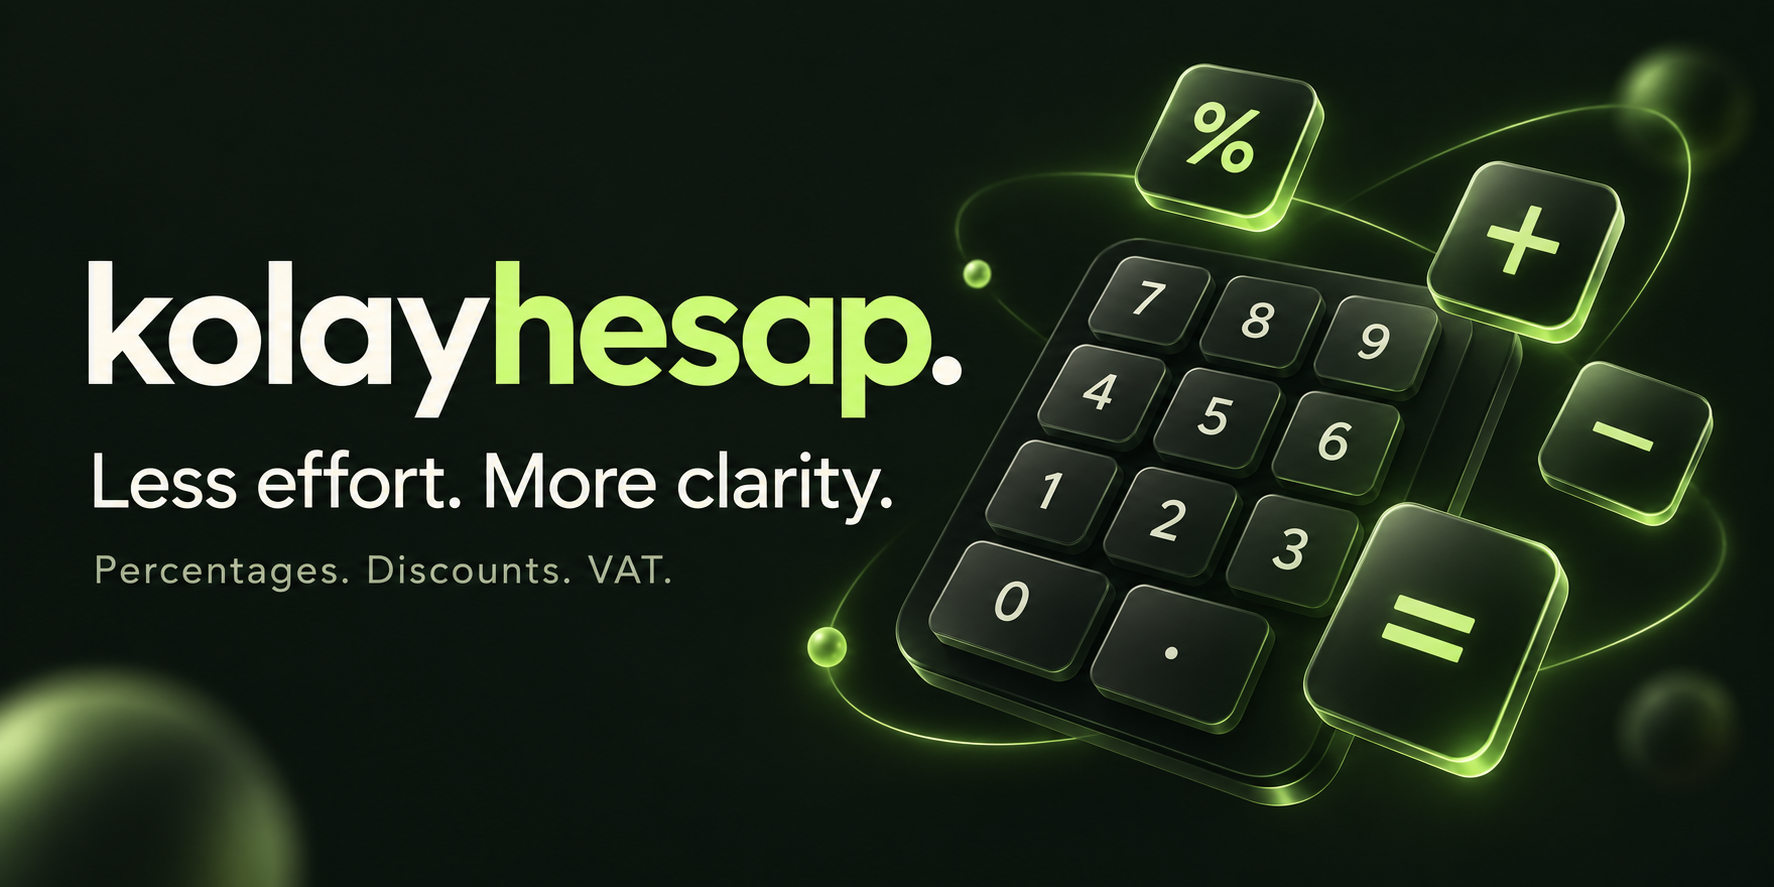
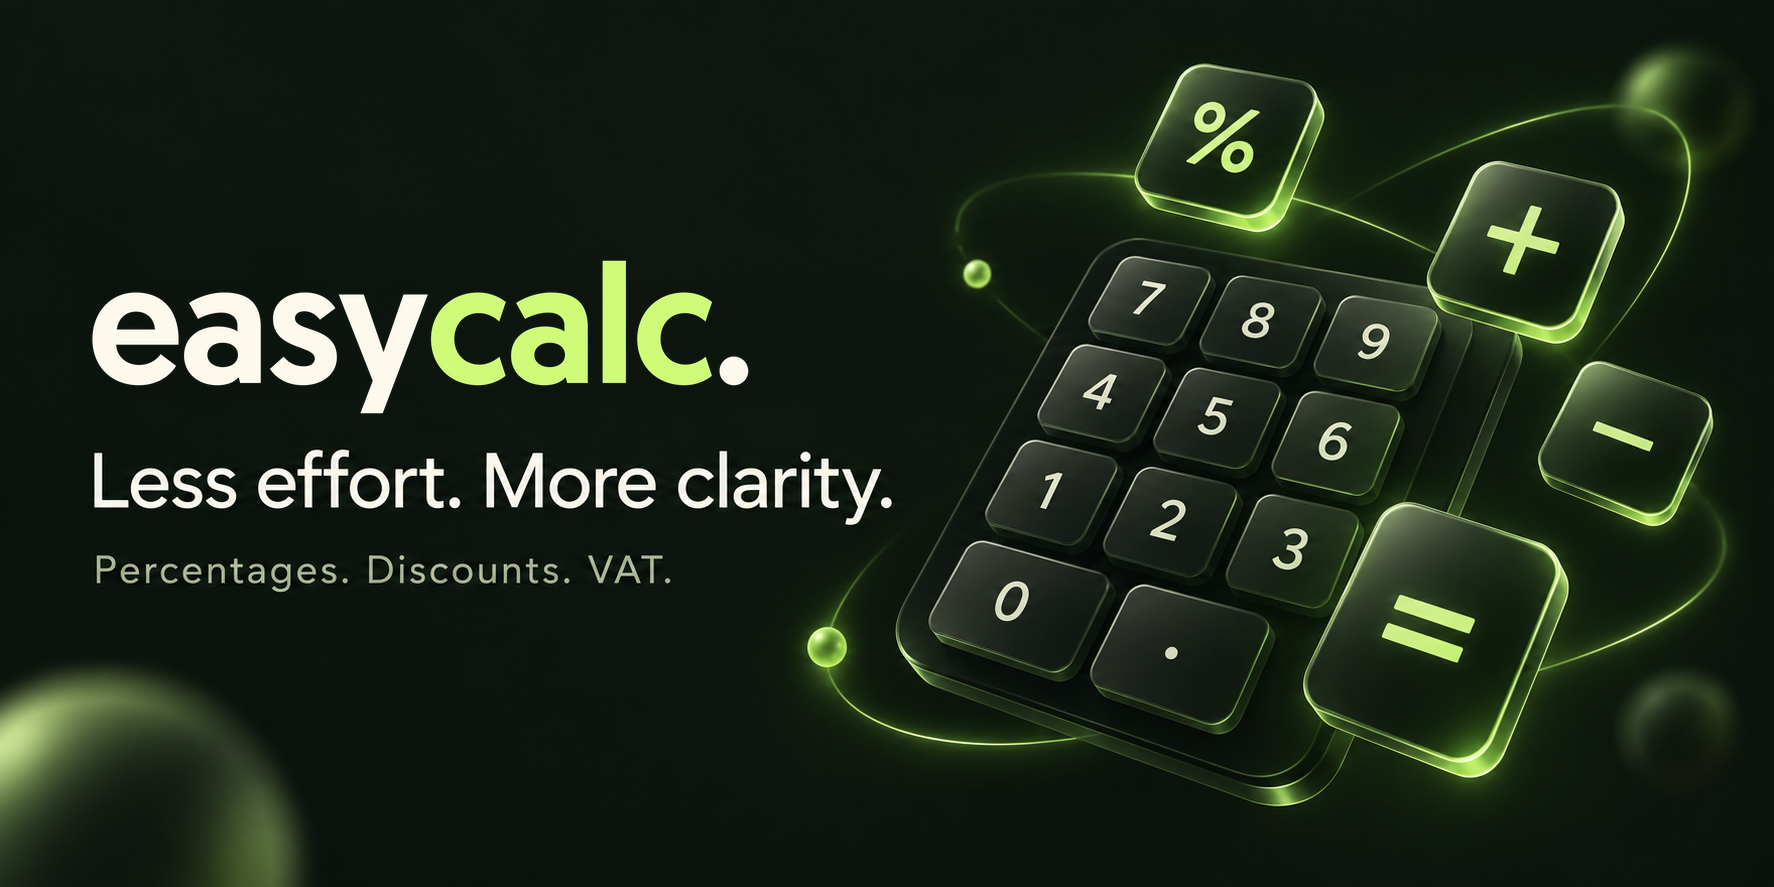
Rename to Easy Calc
The repository is now easy-calc and the product Easy Calc, in line with
English names across the account.

- Wordmark, page titles, Open Graph tags and the GitHub link use the new
  name and URL; preferences are stored under easycalc.*.
- New banner: the artwork is unchanged, the wordmark is redrawn as
  "easycalc." in the same type and colours.
- The Turkish README moved from docs/ to the repository root next to the
  English one, and both describe the browser-language behaviour.

Changed region(s): [[0.031, 0.274, 0.5581, 0.487]]

diff --git a/src/App.tsx b/src/App.tsx
@@ -16,8 +16,8 @@ function remember(key: string, value: string) {
 }
 const browserLanguage = (): Language => navigator.language?.toLowerCase().startsWith("tr") ? "tr" : "en";
 export default function App() {
-  const [language, setLanguage] = useState<Language>(() => saved("kolayhesap.language", ["en", "tr"], browserLanguage()));
-  const [theme, setTheme] = useState<Theme>(() => saved("kolayhesap.theme", ["dark", "light"], "dark"));
+  const [language, setLanguage] = useState<Language>(() => saved("easycalc.language", ["en", "tr"], browserLanguage()));
+  const [theme, setTheme] = useState<Theme>(() => saved("easycalc.theme", ["dark", "light"], "dark"));
   const [mode, setMode] = useState<Mode>("percent");
   const [first, setFirst] = useState("1000"), [second, setSecond] = useState("20");
   const [expression, setExpression] = useState("");
@@ -34,8 +34,8 @@ export default function App() {
     document.querySelector('meta[name="description"]')?.setAttribute("content", t.description);
     document.querySelector('meta[name="theme-color"]')?.setAttribute("content", theme === "dark" ? "#101813" : "#f6f7f2");
   }, [language, theme, t.title, t.description]);
-  function chooseLanguage(next: Language) { setLanguage(next); remember("kolayhesap.language", next); }
-  function chooseTheme(next: Theme) { setTheme(next); remember("kolayhesap.theme", next); }
+  function chooseLanguage(next: Language) { setLanguage(next); remember("easycalc.language", next); }
+  function chooseTheme(next: Theme) { setTheme(next); remember("easycalc.theme", next); }
   let result: ReturnType<typeof calculate> | null = null, resultError = "", detail = "";
   try {
     if (first.trim() && second.trim()) {
@@ -76,11 +76,11 @@ export default function App() {
   const keys = ["AC", "(", ")", "⌫", "7", "8", "9", "÷", "4", "5", "6", "×", "1", "2", "3", "−", "%", "0", language === "tr" ? "," : ".", "+"];
   return <main>
     <header className="topbar">
-      <a className="brand" href="#" aria-label="Kolay Hesap"><span className="brand-mark">=</span>kolay<span>hesap</span><span className="brand-dot">.</span></a>
+      <a className="brand" href="#" aria-label="Easy Calc"><span className="brand-mark">=</span>easy<span>calc</span><span className="brand-dot">.</span></a>
       <div className="toolbar">
         <div className="segmented languages" role="group" aria-label={t.language}>{(["en", "tr"] as const).map(lang => <button key={lang} lang={lang} aria-label={lang === "en" ? "English" : "Türkçe"} aria-pressed={language === lang} onClick={() => chooseLanguage(lang)}>{lang.toUpperCase()}</button>)}</div>
         <div className="segmented themes" role="group" aria-label={t.theme}><button aria-pressed={theme === "light"} onClick={() => chooseTheme("light")}><span aria-hidden="true">☀</span><span>{t.light}</span></button><button aria-pressed={theme === "dark"} onClick={() => chooseTheme("dark")}><span aria-hidden="true">☾</span><span>{t.dark}</span></button></div>
-        <a className="github" href="https://github.com/Talkdedsec/kolay-hesap" target="_blank" rel="noreferrer">GitHub ↗</a>
+        <a className="github" href="https://github.com/Talkdedsec/easy-calc" target="_blank" rel="noreferrer">GitHub ↗</a>
       </div>
     </header>
     <section className="intro"><div><div className="eyebrow"><span className="status-dot" />{t.eyebrow}</div><h1>{t.headline}<br /><span>{t.accent}</span></h1><p>{t.intro}</p></div><div className="intro-aside"><div className="decorative-equation" aria-hidden="true"><span>1,000</span><span>× 20%</span><strong>200<span>↗</span></strong></div><span className="aside-note">{t.tagline}</span></div></section>
@@ -94,6 +94,6 @@ export default function App() {
       <div className="notice" role="status">{notice ? t[notice] : ""}</div><p className="input-help">{t.help}<br />{t.ratesHelp}</p>
     </section><section className="calculator" aria-labelledby="calculator-title"><div className="section-top"><h2 id="calculator-title"><span className="section-index">02</span>{t.classic}</h2><span className="tiny-label" aria-hidden="true">+ − × ÷</span></div><div className="screen"><label htmlFor="expression">{t.expression}</label><input id="expression" value={expression} placeholder="0" spellCheck={false} autoComplete="off" maxLength={200} onChange={event => { setExpression(event.target.value); setAnswer(null); setError(""); }} onKeyDown={event => { if (event.key === "Enter") { event.preventDefault(); solve(); } if (event.key === "Escape") press("AC"); }} /><output aria-live="polite" className={error ? "error" : ""}>{error ? translateError(error, language) : answer === null ? "" : "= " + fmt(answer)}</output></div><div className="keypad">{keys.map(key => <button key={key} onClick={() => press(key)} aria-label={key === "⌫" ? t.backspace : key === "AC" ? t.clear : key} className={key === "AC" ? "clear" : ["÷", "×", "−", "+"].includes(key) ? "operator" : ""}>{key}</button>)}<button className="equals" onClick={solve}>{t.compute}<span>=</span></button></div><p className="keyboard-hint"><kbd>Enter</kbd>{t.compute}<span>·</span><kbd>Esc</kbd>{t.clear}</p><p className="percent-hint">{t.percentHint}</p></section></div>
     <section className="history"><div className="section-top"><h2><span className="section-index">03</span>{t.history}<span className="history-count">{history.length.toString().padStart(2, "0")}</span></h2>{history.length > 0 && <button className="text-button" onClick={() => setHistory([])}>{t.clear}</button>}</div>{history.length ? <div className="history-list">{history.map((item, index) => <button key={index} onClick={() => { setExpression(item.expression); setAnswer(item.value); setError(""); }}><span>{item.expression}</span><strong>= {fmt(item.value)}</strong><span aria-hidden="true">↗</span></button>)}</div> : <p className="history-empty"><span aria-hidden="true">↶</span>{t.historyEmpty}</p>}<p className="history-note">{t.historyNote}</p></section>
-    <footer><span><strong>kolayhesap.</strong>{t.footer}</span><span>{t.privacy}</span></footer>
+    <footer><span><strong>easycalc.</strong>{t.footer}</span><span>{t.privacy}</span></footer>
   </main>;
 }

diff --git a/src/lib/i18n.ts b/src/lib/i18n.ts
@@ -12,7 +12,7 @@ export const modeConfig: { id: Mode; icon: string; defaults: [string, string] }[
 ];
 export const translations = {
  en: {
-  title: "Kolay Hesap — Everyday calculations, made simple",
+  title: "Easy Calc — Everyday calculations, made simple",
   description: "Calculate percentages, discounts, increases and VAT instantly. A free calculator in English and Turkish.",
   tagline: "Small calculations. A little more clarity.", eyebrow: "YOUR EVERYDAY CALCULATOR", headline: "Less effort.", accent: "More clarity.", intro: "From a quick discount to a tricky percentage. Make the numbers work for you.",
   quick: "What are we calculating?", instant: "Live result", rate: "Quick rates", result: "RESULT", empty: "Fill in both fields to see your result.", copy: "Copy result", copied: "Result copied.", copyFailed: "Copy is unavailable. Select the result and copy it manually.",
@@ -29,7 +29,7 @@ export const translations = {
   },
  },
  tr: {
-  title: "Kolay Hesap — Günlük hesaplar artık çok kolay",
+  title: "Easy Calc — Günlük hesaplar artık çok kolay",
   description: "Yüzde, indirim, zam ve KDV hesaplarını anında yap. İngilizce ve Türkçe ücretsiz hesap makinesi.",
   tagline: "Küçük hesaplar. Büyük kolaylık.", eyebrow: "GÜNLÜK HAYATIN HESAP MAKİNESİ", headline: "Hesabı kafana", accent: "takma.", intro: "İndirimden yüzdeye, zamdan KDV’ye. Sayıları yaz, gerisini bize bırak.",
   quick: "Ne hesaplayalım?", instant: "Anında sonuç", rate: "Hızlı oranlar", result: "SONUÇ", empty: "Sonucu görmek için iki alanı da doldur.", copy: "Sonucu kopyala", copied: "Sonuç kopyalandı.", copyFailed: "Kopyalama kullanılamıyor. Sonucu seçip elle kopyalayabilirsin.",

diff --git a/index.html b/index.html
@@ -6,16 +6,16 @@
   <meta name="theme-color" content="#101813" />
   <meta name="description" content="Calculate percentages, discounts, increases and VAT instantly. Dark and light themes. English and Turkish." />
   <meta property="og:type" content="website" />
-  <meta property="og:title" content="Kolay Hesap — Everyday calculations, made simple" />
+  <meta property="og:title" content="Easy Calc — Everyday calculations, made simple" />
   <meta property="og:description" content="Less effort. More clarity. Percentages, discounts and VAT in English and Turkish." />
-  <meta property="og:url" content="https://talkdedsec.github.io/kolay-hesap/" />
-  <meta property="og:image" content="https://talkdedsec.github.io/kolay-hesap/banner.png" />
-  <meta property="og:image:alt" content="Kolay Hesap — Less effort. More clarity." />
+  <meta property="og:url" content="https://talkdedsec.github.io/easy-calc/" />
+  <meta property="og:image" content="https://talkdedsec.github.io/easy-calc/banner.png" />
+  <meta property="og:image:alt" content="Easy Calc — Less effort. More clarity." />
   <meta property="og:locale" content="en_US" />
   <meta property="og:locale:alternate" content="tr_TR" />
   <meta name="twitter:card" content="summary_large_image" />
-  <meta name="twitter:image" content="https://talkdedsec.github.io/kolay-hesap/banner.png" />
-  <title>Kolay Hesap — Everyday calculations, made simple</title>
+  <meta name="twitter:image" content="https://talkdedsec.github.io/easy-calc/banner.png" />
+  <title>Easy Calc — Everyday calculations, made simple</title>
   <script src="./preferences.js"></script>
 </head>
 <body><div id="root"></div><script type="module" src="/src/main.tsx"></script></body>

diff --git a/public/preferences.js b/public/preferences.js
@@ -2,8 +2,8 @@
 {
   let savedTheme = null, savedLanguage = null;
   try {
-    savedTheme = localStorage.getItem("kolayhesap.theme");
-    savedLanguage = localStorage.getItem("kolayhesap.language");
+    savedTheme = localStorage.getItem("easycalc.theme");
+    savedLanguage = localStorage.getItem("easycalc.language");
   } catch { /* The calculator also works when storage is blocked. */ }
   if (savedTheme === "light" || savedTheme === "dark") document.documentElement.dataset.theme = savedTheme;
   const browser = (navigator.language || "").toLowerCase().startsWith("tr") ? "tr" : "en";

diff --git a/README.md b/README.md
@@ -1,16 +1,16 @@
-![Kolay Hesap — Less effort. More clarity.](public/banner.png)
+![Easy Calc — Less effort. More clarity.](public/banner.png)
 
-<p align="center"><strong>English</strong> · <a href="docs/README.tr.md">Türkçe</a></p>
-<p align="center"><a href="https://talkdedsec.github.io/kolay-hesap/">Open the calculator</a> · <a href="#getting-started">Get started</a> · <a href="#calculation-rules">Calculation rules</a></p>
+<p align="center"><strong>English</strong> · <a href="README.tr.md">Türkçe</a></p>
+<p align="center"><a href="https://talkdedsec.github.io/easy-calc/">Open the calculator</a> · <a href="#getting-started">Get started</a> · <a href="#calculation-rules">Calculation rules</a></p>
 
-# Kolay Hesap
+# Easy Calc
 
 **Everyday calculations, made simple.** Percentages, discounts, increases and VAT in a focused interface, with instant answers.
 
 ## Features
 
 - **Dark & light themes** — switch at any time; your preference is remembered on your device.
-- **English first, Turkish optional** — all controls, results, errors and number formatting follow your selected language.
+- **English and Turkish** — opens in your browser's language; controls, results, errors and number formatting follow the language you pick, and your choice is remembered.
 - **Seven quick tools** — percentage, discount, increase, percentage ratio, percentage change, add VAT and remove VAT.
 - **Classic calculator** — operator precedence, parentheses, negative values and decimals, without `eval`.
 - **Less typing** — preset rates, live results, copy to clipboard and reusable session history.
@@ -24,8 +24,8 @@ Changing theme or language preserves your current inputs and calculation history
 Use Node.js 24.
 
 ```sh
-git clone https://github.com/Talkdedsec/kolay-hesap.git
-cd kolay-hesap
+git clone https://github.com/Talkdedsec/easy-calc.git
+cd easy-calc
 npm ci
 npm run dev
 ```

diff --git a/README.tr.md b/README.tr.md
@@ -1,16 +1,16 @@
-![Kolay Hesap — Daha az uğraş, daha net sonuç.](../public/banner.png)
+![Easy Calc — Daha az uğraş, daha net sonuç.](public/banner.png)
 
-<p align="center"><a href="../README.md">English</a> · <strong>Türkçe</strong></p>
-<p align="center"><a href="https://talkdedsec.github.io/kolay-hesap/">Hesap makinesini aç</a> · <a href="#kurulum">Kurulum</a> · <a href="#hesaplama-kuralları">Hesaplama kuralları</a></p>
+<p align="center"><a href="README.md">English</a> · <strong>Türkçe</strong></p>
+<p align="center"><a href="https://talkdedsec.github.io/easy-calc/">Hesap makinesini aç</a> · <a href="#kurulum">Kurulum</a> · <a href="#hesaplama-kuralları">Hesaplama kuralları</a></p>
 
-# Kolay Hesap
+# Easy Calc
 
 **Günlük hesaplar artık çok kolay.** Yüzde, indirim, zam ve KDV hesaplarını sade bir arayüzde anında yap.
 
 ## Özellikler
 
 - **Koyu ve açık tema** — istediğin an değiştir; tercihin cihazında hatırlanır.
-- **İngilizce varsayılan, Türkçe seçilebilir** — düğmeler, sonuçlar, hata mesajları ve sayı biçimi seçtiğin dile uyar.
+- **Türkçe ve İngilizce** — tarayıcının dilinde açılır; düğmeler, sonuçlar, hata mesajları ve sayı biçimi seçtiğin dile uyar, seçimin hatırlanır.
 - **Yedi hızlı araç** — yüzde, indirim, zam, yüzde oranı, yüzde değişimi, KDV ekleme ve ayırma.
 - **Klasik hesap makinesi** — işlem önceliği, parantez, negatif ve ondalık değerler; `eval` kullanılmaz.
 - **Daha az yazı** — hazır oranlar, anlık sonuçlar, kopyalama ve tekrar kullanılabilir işlem geçmişi.
@@ -24,8 +24,8 @@ Dil veya tema değiştirmek girdilerini ve geçmişini silmez. İşlem geçmişi
 Node.js 24 kullan.
 
 ```sh
-git clone https://github.com/Talkdedsec/kolay-hesap.git
-cd kolay-hesap
+git clone https://github.com/Talkdedsec/easy-calc.git
+cd easy-calc
 npm ci
 npm run dev
 ```
